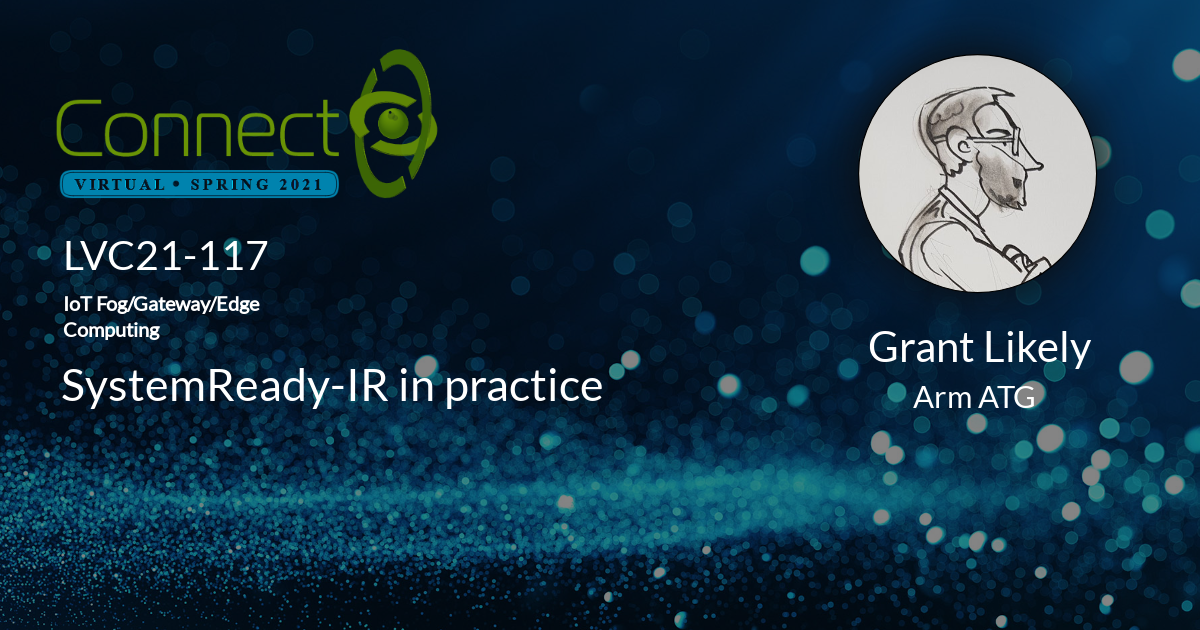
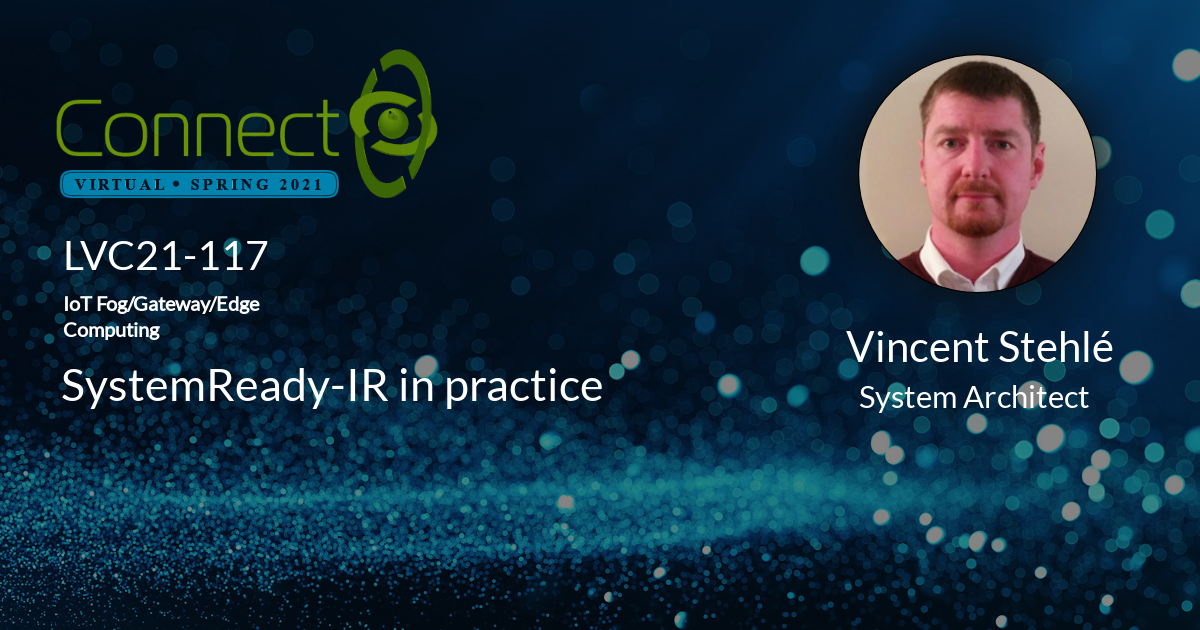
Updated session share image for lvc21-117 and updated speakers

Changed region(s): [[0.7092, 0.0905, 0.925, 0.4825], [0.7092, 0.6032, 0.925, 0.6635], [0.7092, 0.5127, 0.925, 0.573]]

diff --git a/_posts/lvc21/sessions/2021-03-23-lvc21-117.md b/_posts/lvc21/sessions/2021-03-23-lvc21-117.md
@@ -23,20 +23,14 @@ session_slot:
   end_time: '19:25'
   start_time: '19:00'
 session_speakers:
-- speaker_bio: Grant is a software architect in Arm ATG
-  speaker_company: Senior Technical Director
-  speaker_email: grant.likely@arm.com
-  speaker_image: https://sessionize.com/image/245d-400o400o2-82b64d00-6da9-4a2d-a6da-a0f8951017ea.jpg
-  speaker_name: Grant Likely
-  speaker_position: Arm ATG
 - speaker_bio: "Vincent is a System Architect at Arm. He is the technical lead for
     the SystemReady IR band, accompanying partners to certification.\r\nBefore Arm,
     Vincent worked on embedded Linux for several semiconductor manufacturers."
-  speaker_company: Senior Software Engineer - Huawei Technology
+  speaker_company: System Architect
   speaker_email: zheng.zhenyu@outlook.com
   speaker_image: null
   speaker_name: Vincent  Stehlé
-  speaker_position: Huawei
+  speaker_position: Arn
 session_track: IoT Fog/Gateway/Edge Computing
 tag: session
 tags: IoT Fog/Gateway/Edge Computing
